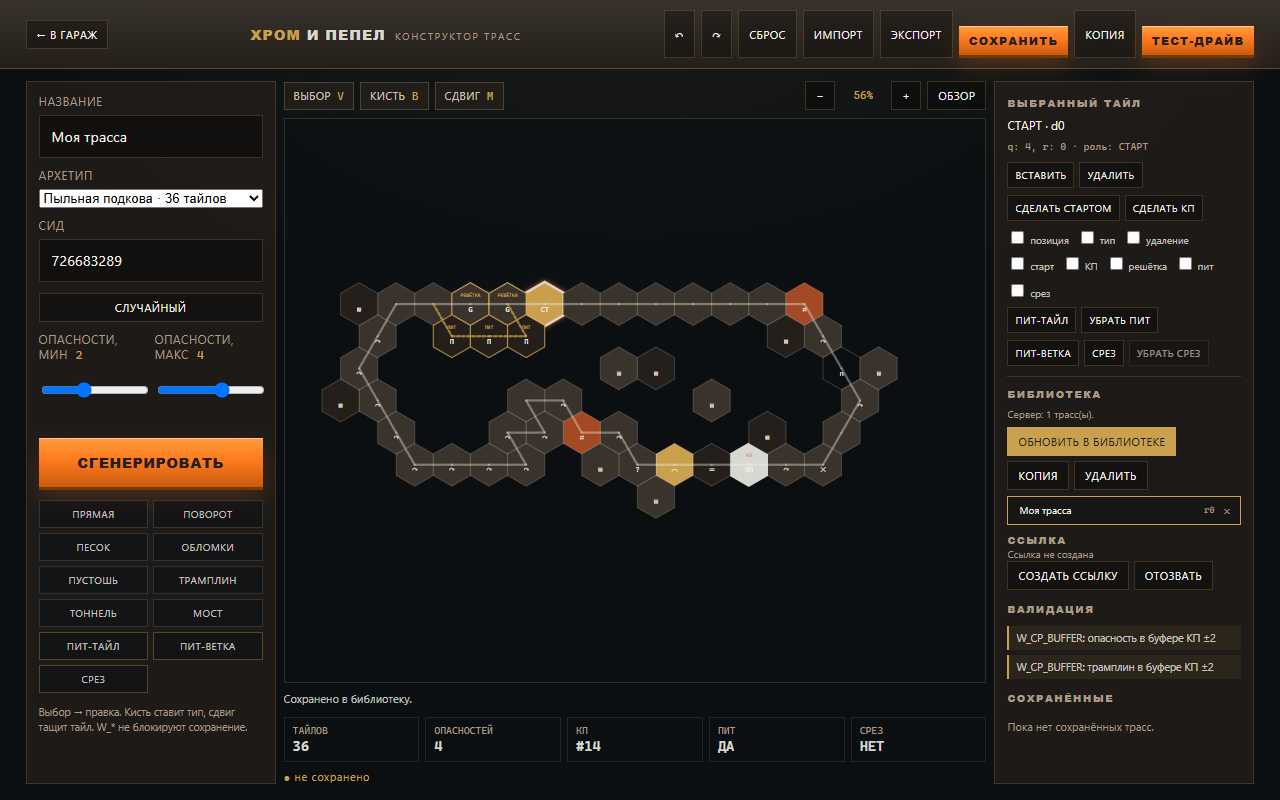
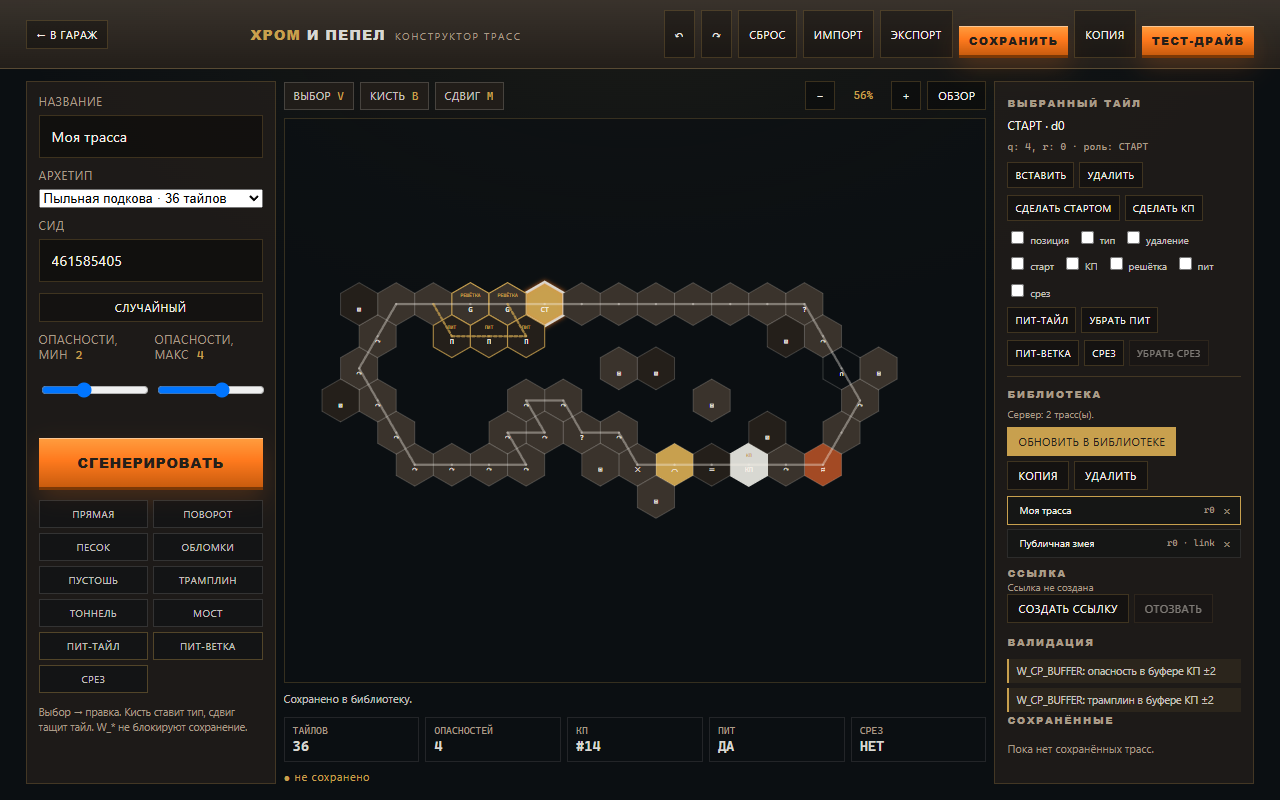
web: restore server mapping on reload and block shared-preview copy bypass

diff --git a/chrome-and-ash-web/js/track-editor-ui.js b/chrome-and-ash-web/js/track-editor-ui.js
@@ -32,6 +32,7 @@
   let sharedToken = null;
   let sharedMeta = null;
   let pendingSharedToken = null;
+  let shareActive = false;
   const SERVER_MAP_KEY = 'cna.serverTrackMap.v1';
 
   function readServerMap() {
@@ -108,7 +109,8 @@
     setDisabled('constructor-server-copy', ro);
     setDisabled('constructor-server-delete', ro || !activeServer);
     setDisabled('constructor-share-create', ro || !activeServer);
-    setDisabled('constructor-share-revoke', ro || !activeServer);
+    setDisabled('constructor-share-revoke', ro || !activeServer || !shareActive);
+    setDisabled('constructor-save-copy', sharedPreview);
     const label = $('constructor-server-save');
     if (label) label.textContent = activeServer ? 'ОБНОВИТЬ В БИБЛИОТЕКЕ' : 'В БИБЛИОТЕКУ';
     const banner = $('constructor-shared-banner');
@@ -157,6 +159,7 @@
       const data = await CnA.API.share.status(activeServer.id);
       const share = data.share || { active: false };
       const create = $('constructor-share-create');
+      shareActive = !!share.active;
       if (share.active) {
         status.textContent = 'Ссылка активна · обновлена ' + (share.updatedAt || '');
         if (create) create.textContent = 'ОБНОВИТЬ ССЫЛКУ';
@@ -165,8 +168,11 @@
         if (create) create.textContent = 'СОЗДАТЬ ССЫЛКУ';
         const row = $('constructor-share-url-row'); if (row) row.hidden = true;
       }
+      renderServerControls();
     } catch (e) {
+      shareActive = false;
       status.textContent = 'Статус ссылки недоступен';
+      renderServerControls();
     }
   }
 
@@ -554,6 +560,7 @@
   }
 
   function generate() {
+    if (sharedPreview && !window.confirm('Выйти из публичной трассы и сгенерировать новую?')) return;
     if (session && !session.readOnly && (session.dirty || session.unsavedNew) &&
       !window.confirm('Несохранённые правки будут потеряны. Сгенерировать заново?')) return;
     activeServer = null;
@@ -561,6 +568,7 @@
     sharedToken = null;
     sharedMeta = null;
     pendingSharedToken = null;
+    shareActive = false;
     const o = optionsFromControls();
     const r = E.generate(o);
     if (!r.spec) {
@@ -931,6 +939,10 @@
 
   function save(copy) {
     if (!session) return;
+    if (sharedPreview) {
+      setStatus('Публичная трасса: локальная копия недоступна. Сохраните JSON или импортируйте в библиотеку после входа.', true);
+      return;
+    }
     if (session.readOnly) {
       if (!copy) { setStatus('Только чтение: доступна только «КОПИЯ».', true); return; }
       ensureStore();
@@ -1013,6 +1025,7 @@
 
   function importTrack(file) {
     if (!file) return;
+    if (sharedPreview && !window.confirm('Выйти из публичной трассы и импортировать файл?')) return;
     const reader = new FileReader();
     reader.onload = async () => {
       ensureStore();
@@ -1046,12 +1059,20 @@
 
   function loadEnvelope(env) {
     if (!env || !env.spec) return;
+    if (sharedPreview && !window.confirm('Выйти из публичной трассы и загрузить локальную?')) return;
     if (session && (session.dirty || session.unsavedNew) && !window.confirm('Несохранённые изменения будут потеряны. Продолжить?')) return;
-    activeServer = null;
     sharedPreview = false;
     sharedToken = null;
     sharedMeta = null;
+    shareActive = false;
     loadSession(env.spec, { kind: 'saved', trackId: env.id });
+    const savedMap = readServerMap()[env.id];
+    activeServer = savedMap && savedMap.serverId ? {
+      id: savedMap.serverId,
+      name: env.name || env.spec.name || 'Моя трасса',
+      revision: Number.isInteger(savedMap.serverRevision) ? savedMap.serverRevision : 0,
+      updatedAt: savedMap.updatedAt || null,
+    } : null;
     const name = $('constructor-name');
     if (name) name.value = env.name || env.spec.name || 'Моя трасса';
     const arch = $('constructor-archetype');
@@ -1059,6 +1080,11 @@
     const seed = $('constructor-seed');
     if (seed) seed.value = String(env.spec.seed == null ? 1 : env.spec.seed);
     renderAll();
+    if (activeServer) {
+      rememberServerTrack(env.id, activeServer);
+      refreshShareStatus().catch(() => {});
+      refreshServerLibrary().catch(() => {});
+    }
   }
 
   function testDrive() {
@@ -1114,6 +1140,7 @@
     activeServer = {
       id: track.id, name: track.name, revision: track.revision, updatedAt: track.updatedAt,
     };
+    shareActive = false;
     rememberServerTrack(editingId, track);
     renderServerControls();
     renderLibrary();
@@ -1165,6 +1192,10 @@
             const data = await CnA.API.tracks.get(activeServer.id);
             loadSession(data.track.spec, { kind: 'saved' });
             activeServer = { id: data.track.id, name: data.track.name, revision: data.track.revision, updatedAt: data.track.updatedAt };
+      shareActive = false;
+      rememberServerTrack(editingId, data.track);
+            shareActive = false;
+            rememberServerTrack(editingId, data.track);
             const nameEl = $('constructor-name'); if (nameEl) nameEl.value = data.track.name;
             refreshShareStatus().catch(() => {});
             renderServerControls();
@@ -1199,6 +1230,8 @@
       sharedPreview = false; sharedToken = null; sharedMeta = null;
       loadSession(data.track.spec, { kind: 'saved' });
       activeServer = { id: data.track.id, name: data.track.name, revision: data.track.revision, updatedAt: data.track.updatedAt };
+      shareActive = false;
+      rememberServerTrack(editingId, data.track);
       const nameEl = $('constructor-name'); if (nameEl) nameEl.value = data.track.name;
       renderServerControls();
       renderLibrary();
@@ -1216,7 +1249,7 @@
     try {
       await CnA.API.tracks.remove(id);
       forgetServerTrack(id);
-      if (activeServer && activeServer.id === id) activeServer = null;
+      if (activeServer && activeServer.id === id) { activeServer = null; shareActive = false; }
       refreshShareStatus().catch(() => {});
       await refreshServerLibrary();
       renderServerControls();
@@ -1231,6 +1264,8 @@
     if (!activeServer) { setStatus('Сначала сохраните трассу в библиотеку.', true); return; }
     try {
       const data = await CnA.API.share.create(activeServer.id);
+      shareActive = true;
+      renderServerControls();
       const url = location.origin + data.share.url;
       const input = $('constructor-share-url');
       const row = $('constructor-share-url-row');
@@ -1252,6 +1287,8 @@
     if (!window.confirm('Отозвать публичную ссылку?')) return;
     try {
       await CnA.API.share.revoke(activeServer.id);
+      shareActive = false;
+      renderServerControls();
       const row = $('constructor-share-url-row'); if (row) row.hidden = true;
       const input = $('constructor-share-url'); if (input) input.value = '';
       const status = $('constructor-share-status'); if (status) status.textContent = 'Ссылка отозвана';
@@ -1291,6 +1328,8 @@
       sharedPreview = false; sharedToken = null; sharedMeta = null;
       loadSession(data.track.spec, { kind: 'saved' });
       activeServer = { id: data.track.id, name: data.track.name, revision: data.track.revision, updatedAt: data.track.updatedAt };
+      shareActive = false;
+      rememberServerTrack(editingId, data.track);
       const nameEl = $('constructor-name'); if (nameEl) nameEl.value = data.track.name;
       renderServerControls();
       refreshServerLibrary().catch(() => {});
@@ -1310,11 +1349,13 @@
     sharedToken = token || null;
     pendingSharedToken = token || null;
     activeServer = null;
-    try { history.replaceState({}, '', location.pathname); } catch (e) { /* ignore */ }
+    shareActive = false;
     try {
       const data = await CnA.API.shared.get(token);
       const spec = data.track && data.track.spec;
       if (!spec) throw new Error('пустой ответ');
+      pendingSharedToken = null;
+      try { history.replaceState({}, '', location.pathname); } catch (e) { /* ignore */ }
       session = makeReadOnlyShell(spec, 'shared', []);
       sharedMeta = {
         name: data.track.name || 'Публичная трасса',
@@ -1340,8 +1381,8 @@
   }
 
   function openPendingShared() {
-    if (!pendingSharedToken) return false;
-    const token = pendingSharedToken;
+    const token = pendingSharedToken || sharedToken;
+    if (!token) return false;
     pendingSharedToken = null;
     openShared(token).catch(() => {});
     return true;

diff --git a/chrome-and-ash-web/index.html b/chrome-and-ash-web/index.html
@@ -246,7 +246,7 @@
           </div>
           <div id="constructor-live" class="sr-only" aria-live="polite"></div>
           <div id="constructor-stats" class="constructor-stats"></div>
-          <div id="constructor-dirty" class="constructor-dirty" hidden>● не сохранено</div>
+          <div id="constructor-dirty" class="constructor-dirty" aria-live="polite" hidden>● не сохранено</div>
         </section>
         <aside class="constructor-side">
           <div id="constructor-inspector" class="constructor-inspector">
@@ -285,7 +285,7 @@
           </div>
           <div id="constructor-library-block" class="constructor-library">
             <h3>БИБЛИОТЕКА</h3>
-            <div id="constructor-server-status" class="constructor-server-status">проверка сервера…</div>
+            <div id="constructor-server-status" class="constructor-server-status" aria-live="polite">проверка сервера…</div>
             <div class="inspector-row">
               <button id="constructor-server-save" class="chip-btn primary" type="button">В БИБЛИОТЕКУ</button>
               <button id="constructor-server-copy" class="chip-btn" type="button">КОПИЯ</button>
@@ -294,7 +294,7 @@
             <div id="constructor-library" class="constructor-library-list"></div>
             <div id="constructor-share-block" class="constructor-share-block">
               <h3>ССЫЛКА</h3>
-              <div id="constructor-share-status" class="constructor-server-status">Трасса не в библиотеке</div>
+              <div id="constructor-share-status" class="constructor-server-status" aria-live="polite">Трасса не в библиотеке</div>
               <div class="inspector-row">
                 <button id="constructor-share-create" class="chip-btn" type="button">СОЗДАТЬ ССЫЛКУ</button>
                 <button id="constructor-share-revoke" class="chip-btn danger" type="button">ОТОЗВАТЬ</button>

diff --git a/chrome-and-ash-web/style.css b/chrome-and-ash-web/style.css
@@ -852,7 +852,9 @@ code { font-family: var(--font-mono); color: var(--brass); }
 .palette-btn:hover { border-color: var(--brass); color: var(--text); }
 .palette-btn.active { background: var(--brass); color: var(--waste); border-color: var(--brass); }
 .palette-btn.feature-btn { border-color: rgba(200,160,78,.35); }
-.palette-btn:disabled, .tool-btn:disabled { opacity: .45; cursor: not-allowed; }
+.palette-btn:disabled, .tool-btn:disabled, .chip-btn:disabled, .big-btn:disabled {
+  opacity: .45; cursor: not-allowed;
+}
 .constructor-inspector { display: flex; flex-direction: column; gap: 7px; }
 #constructor-node-title { font-size: 12px; color: var(--text); }
 .node-meta { font-family: var(--font-mono); font-size: 10px; color: var(--muted); line-height: 1.45; }
